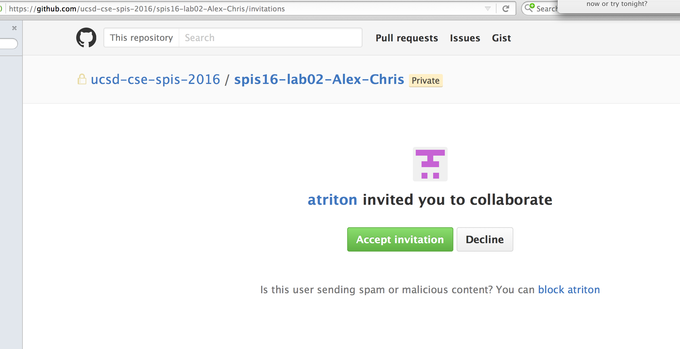
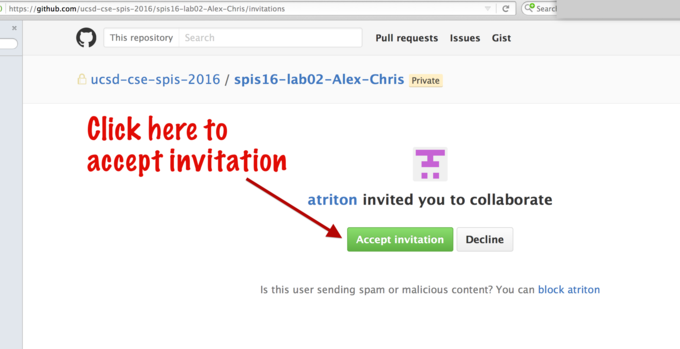
add collaborators

diff --git a/_topics/github_add_collaborators.md b/_topics/github_add_collaborators.md
@@ -6,18 +6,136 @@ desc: "Giving a pair partner or other team member write access to a shared repo"
 The following instructions can be used to provide write access to a shared repo.  These instructions are
 written using  a private repo as an example, but they work equally well on public repos.
 
-Here's how, described as both a list of steps, and a list of images.
+Here's how, described as both a list of steps, and a list of images.  In this example:
 
-1. Navigate to the repo page, and click on Settings for the repo
-    ![](click-on-settings-for-this-repo-50.png)
+* The first pair partner is Alex Triton, github id `atriton`
+* The second pair partner is Chris La Jolla, github id `chrislajolla`
+* Alex has create a repo called spis16-lab02-Alex-Chris under the github organization ucsd-cse-spis-2016 and wants to give Chris access to this repo as well.
 
-1. Select "Collaborators and Teams" from the menu at right
-    ![](select-collaborators-and-teams-50.png)
+These are the steps Alex should take to invite Chris as a collaborator:
 
-1. On the lower half of the page, in the "Add Collaborator" section, type in each students github id.
+1. Navigate to the repo page, and click on <b>Settings</b> for the repo
+
+    ![spis16-lab02-Alex-Chris-repo-page-50.png](spis16-lab02-Alex-Chris-repo-page-click-Settings-50.png){: title="Click settings on repo page" }
+
+1. Select <b>Collaborators &amp; Teams</b> from the menu at the left side of the page.
+
+    ![spis16-lab02-Alex-Chris-repo-settings-50.png](spis16-lab02-Alex-Chris-repo-settings-click-collaborators-50.png){: title="click 'Collaborators &amp; teams' " }
+
+1. On the lower half of the page, in the "Add Collaborator" section, start typing in the github id
+    of the pair partner that you want to add as a collaborator.
 
     Click the github id when it appears.  BE SURE IT IS ACCURATE.    Otherwise, you'll be sharing your repo with
     some perfect stranger.  That would be very bad.  So don't do that please.
 
-    ![](repo-add-collaborator-enter-github-id-50.png)
+    Note: in some browsers, you have to *actually click* on the name that pops up&mdash;it is not
+    sufficient to simply type in the full name.  Your experience may vary.
+
+    ![start-typing-chrislajol-then-name-will-pop-up-click-on-it-50.png](start-typing-chrislajol-then-name-will-pop-up-click-on-it-50.png){: title="Start typing pair partners name then click on it" }
+
+
+1.  When inviting a user to be a collaborator, the default permission
+    level is <b>Write</b>.  If you are working with a pair partner,
+    you should probably change that to <b>Admin</b>.  
+
+    The following
+    image indicates how to do that.  If you accidentally omit this
+    step, then the user you are inviting will not have access to the
+    <b>Settings<b> menu for the repo.  (If that happens, there is
+    information later on this page about how to fix that.)
+
+    ![change-permission-level-to-admin-50.png](change-permission-level-to-admin-50.png){: title="change-permission-level-to-admin-50.png" }
+
+
+# Accepting the invitation to Collaborate
+
+Suppose Alex has created the repo using the `atriton` account, and has invited `chrislajolla` as a collaborator.
+
+This is not sufficient for Chris to immediately have access.   Chris must first *accept* the invitation.
+
+Since the repo in question is a private repo, it will not automatically appear as a repo
+that Chris has access to under Chris' github account.
+
+Instead, when Alex invited Chris as a collaborator, an email similar to the following 
+was generated and send to whatever email Chris verified for Chris' github account.
+The email contains a link that Chris can click to review the invitation. 
+
+![atriton-invites-chrislajolla-to-lab02-repo-50.png](atriton-invites-chrislajolla-to-lab02-repo-50.png){: title="atriton-invites-chrislajolla-to-lab02-repo-50.png" }
+
+At that URL, Chris should see something like this, where Chris can click to accept the invitation.
+
+![atriton-invited-you-to-collaborate-30.png](atriton-invited-you-to-collaborate-30.png){: title="atriton-invited-you-to-collaborate-30.png" }
+
+Chris should be redirected to the repo page, with the level of access to the repo authorized
+by Alex as shown in the image below.
+
+Note that if Alex provided <b>Admin</b> access, Chris will have full privileges over
+the repo.  If Alex only provided <b>Write</b> access (as in the example shown below), Chris's
+repo page will not have the <b>Setting</b> page.    To fix that, see the section "Changing access levels for collaborators", later on this page.
+
+![you-now-have-access-to-the-spis16-lab02-Alex-Chris-repo-50.png](you-now-have-access-to-the-spis16-lab02-Alex-Chris-repo-50.png){: title="you-now-have-access-to-the-spis16-lab02-Alex-Chris-repo-50.png" }
+
+# What if Chris doesn't get an invitation email?
+
+It isn't strictly necessary for Chris to find the invitation email.
+Instead, Alex can simply provide Chris with invitation url.
+
+There is a place to copy the invitation url on the repo's settings page, 
+under <b>Collaborators and Teams<b>, as shown here:
+
+![copy-invite-link-30.png](copy-invite-link-30.png){: title="Copy invitation link" }
+
+# Changing Access Levels for Collaborators
+
+Invitations can be issued for different levels of access:
+
+* <b>Read</b> access means "Read Only".  It signifies that the contents of a private repo can be read, but not changed.
+   In SPIS, we use this for the FEEDBACK repos: Mentors and Instructors have write
+   access to these repos, and we invite each student or pair with 
+
+* <b>Write</b> access means that the user can write to the repo, but cannot change the 
+   things on the settings page.  This means, among other things, that the user cannot:
+    * Change the name of the repo
+    * Complete delete the repo
+    * Add other collaborators to the repo
+
+* <b>Admin</b> access is the highest level of access with which a user can be invited.
+    It gives the same kind of access as the original person that sent the invitation.
+    You have to have Admin access in order to invite another user to be a collaborator.
+
+If you've been invited to a repo, you can check your level of access:
+
+* If you have a settings menu on the repo's page, you have admin access
+* If you don't have a settings menu, you either have read, or write access.  You could try
+    editing the README.md to see if you can add a single space.  
+
+    If you can, then
+    you have write access.  
+
+    If instead, when you try to do that, it tries to create a 
+    "fork" of the repo, then you have read only access.    
+
+Here are some examples of what it looks like to invite a user with various kinds of access.
+
+Here, `atriton` has invited `chrislajolla` with admin access:
+
+![atriton-has-invited-chrislajolla-with-admin-40.png](atriton-has-invited-chrislajolla-with-admin-40.png){: title="atriton-has-invited-chrislajolla-with-admin-40.png" }
+
+By contrast, here, `atriton` has invited `chrislajolla` with write access:
+
+![atriton-has-invited-chrislajolla-with-write-access-40.png](atriton-has-invited-chrislajolla-with-write-access-40.png){: title="atriton-has-invited-chrislajolla-with-write-access-40.png" }
+
+Here, `atriton` has a settings menu, indicating that `atriton` has admin access.
+
+![atriton-has-settings-menu-40.png](atriton-has-settings-menu-40.png){: title="atriton-has-settings-menu-40.png" }
+
+If `chrislajolla` has already accepted an invitation from `atriton` and has only <b>Write</b> access, `atriton` can change that by simply selecting a different level of access on the <b>Collaborators &amp; teams</b> tab on the repo settings page as shown below:
+
+![change-chrislajolla-to-have-admin-access-40.png](change-chrislajolla-to-have-admin-access-40.png){: title="change-chrislajolla-to-have-admin-access-40.png" }
+
+
+
+
+
+
 
